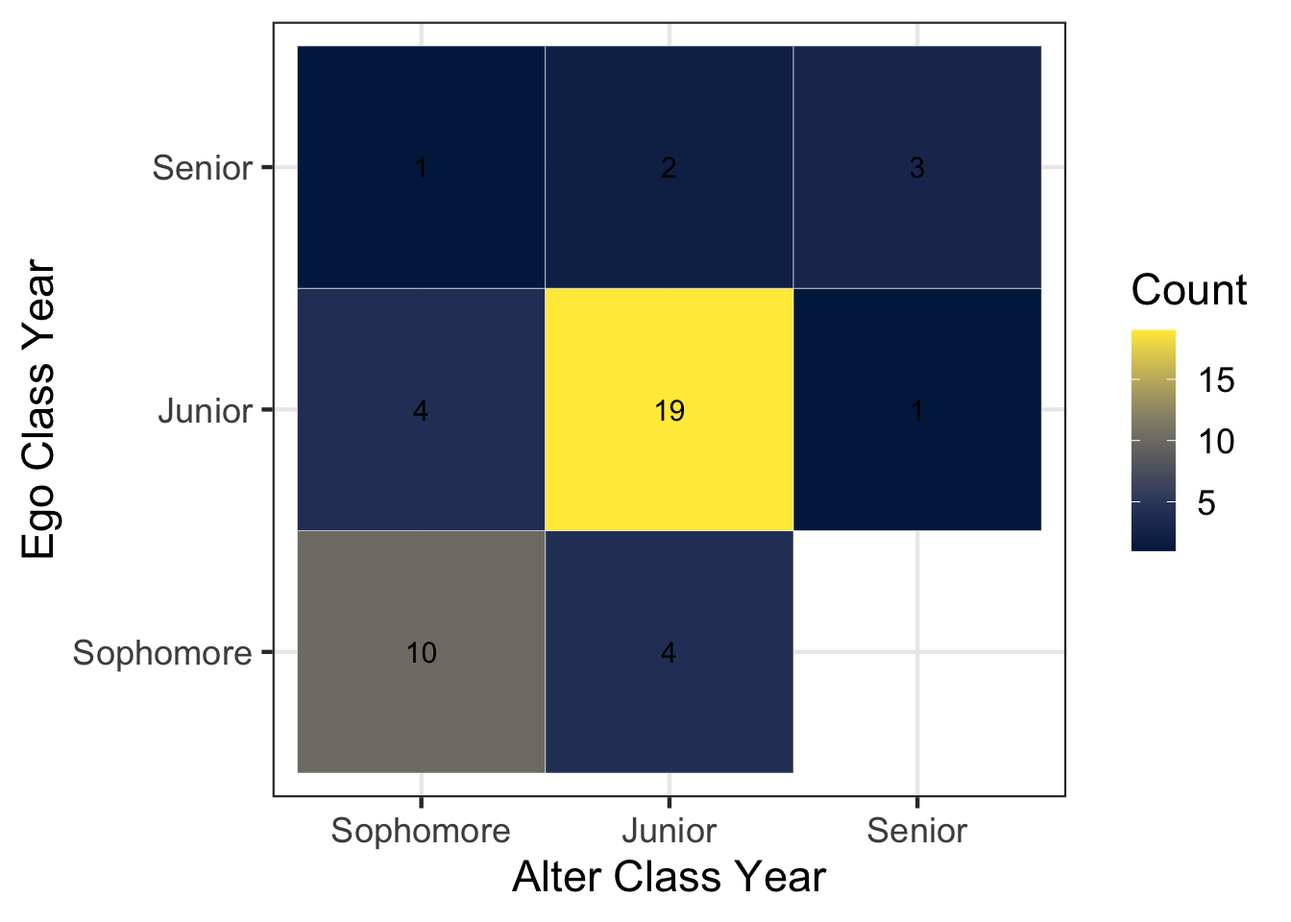
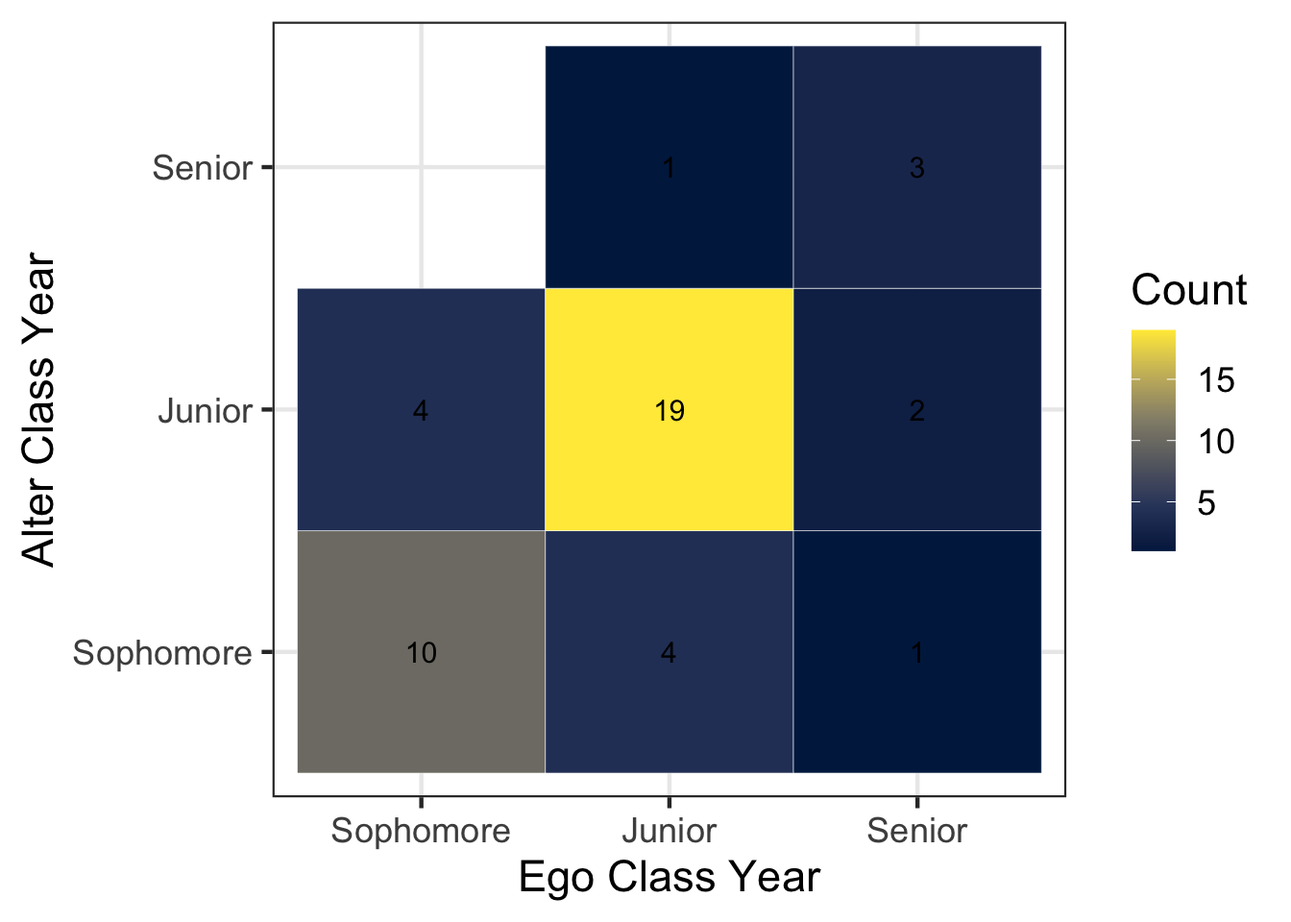
update files

diff --git a/labs/lab2.html b/labs/lab2.html
@@ -7,8 +7,9 @@
 <meta name="viewport" content="width=device-width, initial-scale=1.0, user-scalable=yes">
 
 <meta name="author" content="">
+<meta name="dcterms.date" content="2026-03-05">
 
-<title>Lab 2 (3.2.2026)</title>
+<title>Lab 2</title>
 <style>
 code{white-space: pre-wrap;}
 span.smallcaps{font-variant: small-caps;}
@@ -112,7 +113,7 @@ window.Quarto = {
 
 <header id="title-block-header" class="quarto-title-block default">
 <div class="quarto-title">
-<h1 class="title">Lab 2 (3.2.2026)</h1>
+<h1 class="title">Lab 2</h1>
 </div>
 
 
@@ -126,6 +127,12 @@ window.Quarto = {
           </div>
   </div>
     
+    <div>
+    <div class="quarto-title-meta-heading">Published</div>
+    <div class="quarto-title-meta-contents">
+      <p class="date">March 5, 2026</p>
+    </div>
+  </div>
   
     
   </div>
@@ -146,7 +153,7 @@ window.Quarto = {
 </section>
 <section id="exercise-1-analyze-network-data" class="level1">
 <h1>Exercise 1: Analyze network data</h1>
-<p>We will use the Florentine Family Marriage dataset as a running example for network analysis. Before we start, we need to install and load required packages. A package is a collection of functions (e.g., functions to plot networks) that will help us with our analysis.</p>
+<p>We will use the Florentine Family Marriage dataset as a running example for network analysis. Before we start, we need to install and load required <code>R</code> packages. An <code>R</code> package is a collection of functions (e.g., functions to plot networks) that will help us with our analysis.</p>
 <ul>
 <li><p><code>tidygraph</code> includes tools for network analysis.</p></li>
 <li><p><code>ggraph</code> is used for visualizing networks.</p></li>
@@ -160,7 +167,7 @@ window.Quarto = {
 <span id="cb1-4"><a href="#cb1-4" aria-hidden="true" tabindex="-1"></a><span class="co"># install.packages("ggraph")</span></span>
 <span id="cb1-5"><a href="#cb1-5" aria-hidden="true" tabindex="-1"></a><span class="co"># devtools::install_github("schochastics/networkdata")</span></span></code></pre></div><button title="Copy to Clipboard" class="code-copy-button"><i class="bi"></i></button></div>
 </div>
-<p>Next, we’ll need to library the packages with the function <code>library()</code>. This allows us to use the packages for this session. We only need to install packages once, but load with with <code>library()</code> every time we start a new session.</p>
+<p>Next, we’ll need to library the packages with the function <code>library()</code>. This allows us to use the packages for this session. We only need to install packages once, but load with <code>library()</code> every time we start a new session.</p>
 <div class="cell">
 <div class="code-copy-outer-scaffold"><div class="sourceCode cell-code" id="cb2"><pre class="sourceCode r code-with-copy"><code class="sourceCode r"><span id="cb2-1"><a href="#cb2-1" aria-hidden="true" tabindex="-1"></a><span class="co"># load packages</span></span>
 <span id="cb2-2"><a href="#cb2-2" aria-hidden="true" tabindex="-1"></a><span class="fu">library</span>(tidyverse)</span>
@@ -177,7 +184,7 @@ window.Quarto = {
 <div class="cell">
 <div class="code-copy-outer-scaffold"><div class="sourceCode cell-code" id="cb3"><pre class="sourceCode r code-with-copy"><code class="sourceCode r"><span id="cb3-1"><a href="#cb3-1" aria-hidden="true" tabindex="-1"></a><span class="fu">data</span>(<span class="st">"flo_marriage"</span>)</span></code></pre></div><button title="Copy to Clipboard" class="code-copy-button"><i class="bi"></i></button></div>
 </div>
-<p>The <code>flo_marriage</code> is stored as a network igraph object. To use <code>tidygraph</code>, we need to convert this network object into a tidygraph object using <code>as_tbl_graph</code> so we can analyze it using tidy tools. We assign a name <code>flo_tbl</code> to the converted data frame.</p>
+<p>The <code>flo_marriage</code> is stored as a network igraph object. To use <code>tidygraph</code>, we need to convert this network object into a tidygraph object using <code>as_tbl_graph</code> so we can analyze it using the functions in the <code>tidygraph</code> package. We store the result in an object named <code>flo_tbl</code>.</p>
 <div class="cell">
 <div class="code-copy-outer-scaffold"><div class="sourceCode cell-code" id="cb4"><pre class="sourceCode r code-with-copy"><code class="sourceCode r"><span id="cb4-1"><a href="#cb4-1" aria-hidden="true" tabindex="-1"></a>flo_tbl <span class="ot">&lt;-</span> <span class="fu">as_tbl_graph</span>(flo_marriage)</span>
 <span id="cb4-2"><a href="#cb4-2" aria-hidden="true" tabindex="-1"></a>flo_tbl</span></code></pre></div><button title="Copy to Clipboard" class="code-copy-button"><i class="bi"></i></button></div>
@@ -229,12 +236,12 @@ window.Quarto = {
 <li><code>to</code>: the node ID that the edge connects to</li>
 </ul>
 <p>The edge table gives us the information on which nodes are connected as marriage ties. Node IDs are used instead of family names because numerical IDs are more efficient for a computer to work with.</p>
-<p>You can find more information about details about how this dataset was generated from this paper:</p>
-<p>Breiger R. and Pattison P. (1986). Cumulated social roles: The duality of persons and their algebras. Social Networks, 8, 215-256. https://doi.org/10.1016/0378-8733(86)90006-7</p>
+<p>You can find more information about how this dataset was generated from this paper:</p>
+<p>Breiger R. and Pattison P. (1986). Cumulated social roles: The duality of persons and their algebras. <em>Social Networks</em>, 8, 215-256. https://doi.org/10.1016/0378-8733(86)90006-7</p>
 <p>Overall, we can learn from the output that:</p>
 <ul>
 <li><p>The network has 16 families (nodes) and 20 marriage ties (edges).</p></li>
-<li><p>It is undirected (marriage is mutual). If person A is married to person B, person B is married to person A.</p></li>
+<li><p>It is undirected (marriage is mutual). If someone in family A is married to someone in family B, someone in family B is married to someone in family A.</p></li>
 </ul>
 <p>If you want to check explicitly the number of nodes and edges, use the following two functions from the <code>tidygraph</code> package. This takes a few steps.</p>
 <div class="cell">
@@ -265,7 +272,7 @@ window.Quarto = {
 <p><code>%&gt;%</code> is the pipe operator that lets us chain operations together without creating intermediate objects. It works by taking the object on the left-hand side and passing it as the first argument to the next function.</p>
 <p><code>activate()</code> tells <code>tidygraph</code> to apply subsequent manipulations to the nodes, since the tbl_graph objects hold two separate, linked tables (nodes and edges).</p>
 <p><code>as_tibble()</code> converts the tbl_graph object into a regular table so that standard data-frame functions like <code>count()</code> can work. A tbl_graph is not a regular data frame.</p>
-<p><code>count(name = "")</code> counts the number of rows and assigns the number to “n_edges”.</p>
+<p><code>count(name = "n_nodes")</code> counts the number of rows and assigns the number to a column <code>n_nodes</code>.</p>
 <section id="the-medici-family" class="level2">
 <h2 class="anchored" data-anchor-id="the-medici-family">The Medici Family</h2>
 <p>Now that we have a basic understanding of the network, we can do some basic analysis of the network. The Medici family was a powerful banking dynasty in Florence that produced renowned patrons of the arts, four popes, and two French queens, leaving a lasting impact on European economy, culture, and politics.</p>
@@ -289,9 +296,6 @@ window.Quarto = {
 </div>
 </div>
 </div>
-<section id="comprehension-check" class="level4">
-<h4 class="anchored" data-anchor-id="comprehension-check">[Comprehension check]</h4>
-<p>Based on the visualization above, what families appear to be the most important to this network?</p>
 <p>In the code chunk above:</p>
 <p><code>set.seed()</code>: fix the starting point of R’s random number generator. Without setting a seed (e.g., 8287), layout algorithms in <code>ggraph</code> that rely on randomness may produce slightly different network visualizations each time the code is executed.</p>
 <p><code>ggraph(flo_tbl, layout = "stress")</code>: a function used to visualize networks. <code>flo_tbl</code> is the network object being plotted, and <code>layout = "stress"</code> specifies a force-directed layout algorithm that positions nodes so that connected nodes appear closer together in the visualization.</p>
@@ -301,10 +305,13 @@ window.Quarto = {
 <p><code>geom_node_text(aes(label = name), repel = TRUE)</code>: a function used to add text labels to nodes. <code>aes()</code> stands for aesthetic mapping, and it tells R to use the variable name from the node table as the label. <code>repel = TRUE</code> prevents labels from overlapping and makes the plot more readable.</p>
 <p><code>theme_void()</code>: a function that removes axes, ticks, and background grid to make the plot cleaner.</p>
 <p><strong>Note</strong>: Graphs can be visualized in different ways. In the code above, try changing the <code>layout = "stress"</code> in the code block above to something like <code>layout = "circle"</code> or <code>layout = "fr"</code>. How did this change the plot?</p>
+<section id="comprehension-check" class="level4">
+<h4 class="anchored" data-anchor-id="comprehension-check">[Comprehension check]</h4>
+<p>Based on the visualization above, what families appear to be the most important to this network?</p>
 </section>
 <section id="centrality-measures" class="level3">
 <h3 class="anchored" data-anchor-id="centrality-measures">Centrality Measures</h3>
-<p>Now we move to measurements for centrality. We will calculate two types of centrality: degree and betweenness centrality.</p>
+<p>Now we move to measurements for centrality. We will calculate two types of centrality: degree centrality and betweenness centrality.</p>
 <div class="cell">
 <div class="code-copy-outer-scaffold"><div class="sourceCode cell-code" id="cb11"><pre class="sourceCode r code-with-copy"><code class="sourceCode r"><span id="cb11-1"><a href="#cb11-1" aria-hidden="true" tabindex="-1"></a><span class="do">## calculate centrality measures </span></span>
 <span id="cb11-2"><a href="#cb11-2" aria-hidden="true" tabindex="-1"></a>flo_tbl <span class="ot">&lt;-</span> flo_tbl <span class="sc">%&gt;%</span></span>
@@ -341,7 +348,7 @@ window.Quarto = {
 <p>In the code chunk above, we first tell R to apply subsequent manipulations to the nodes using <code>activate(nodes)</code>. Then we have the following functions:</p>
 <p><code>mutate()</code>: add new columns to the active table (which is currently the node table).</p>
 <p><code>centrality_degree()</code>: calculate the degree centrality (the number of connections) for each node. The result is stored in a new column called <code>degree</code>.</p>
-<p><code>centrality_betweenness</code>: calculate the betweenness centrality (how often a node lies on the shortest path between other nodes) for each node. The result is stored in a new column called <code>betweenness</code>.</p>
+<p><code>centrality_betweenness()</code>: calculate the betweenness centrality (how many times a node lies on the shortest path between other nodes) for each node. The result is stored in a new column called <code>betweenness</code>.</p>
 <p>With <code>as_tibble()</code>, we again convert the tbl_graph object into a regular table.</p>
 <p><code>select()</code>: chooses only the columns we want to display. Here, we want to display only the family names, degree centrality, and betweenness centrality values.</p>
 <p>Now let’s combine the two centrality measures into one visualization:</p>
@@ -377,12 +384,12 @@ window.Quarto = {
 <p><code>scale_fill_viridis_c(option = "cividis", name = "Betweenness")</code>: This defines the color scale for betweenness centrality. We use the colorblind-friendly “cividis” palette and label the legend as “Betweenness.”</p>
 <p><code>scale_size(range = c(5, 10), name = "Degree")</code>: This controls the visual size range of the nodes, scaling them between 5 and 10, and labels the legend as “Degree.”</p>
 <p><code>theme_graph()</code>: This removes axes and background elements to create a cleaner network visualization.</p>
-<p><code>labs(title = "Florentine Marriage Network")</code>: This allow us to add or modify labels in a plot. Here, we add a title for the plot with <code>title = "Florentine Marriage Network"</code>.</p>
+<p><code>labs(title = "Florentine Marriage Network")</code>: This allows us to add or modify labels in a plot. Here, we add a title for the plot with <code>title = "Florentine Marriage Network"</code>.</p>
 <section id="exercise-questions-1.1---1.4" class="level4">
 <h4 class="anchored" data-anchor-id="exercise-questions-1.1---1.4">Exercise Questions (1.1 - 1.4)</h4>
 <p>1.1 What does each centrality measure reveal about the Medici family’s influence, and what does this imply about its power in the network?</p>
-<p>1.2 What would happen if we remove Medici from the network? Run the code below and describe how the network has changed. Now which family appears to be the most important? Is the network more fragmented?</p>
-<p>1.3 Based on your answers to 1.1 and 1.2, describe two types of social capital that the Medici family likely has. How do you know?</p>
+<p>1.2 What would happen if we remove Medici from the network? Run the code below and describe how the network has changed. Now which family appears to be the most important? Is the network more fragmented (i.e, contain more components)?</p>
+<p>1.3 Based on your answers to 1.1 and 1.2, describe two types of social capital theorized by Robert Putnam that the Medici family likely has. How do you know?</p>
 <div class="cell">
 <div class="code-copy-outer-scaffold"><div class="sourceCode cell-code" id="cb14"><pre class="sourceCode r code-with-copy"><code class="sourceCode r"><span id="cb14-1"><a href="#cb14-1" aria-hidden="true" tabindex="-1"></a><span class="do">## First, drop the Medici family and recalculate centrality measures </span></span>
 <span id="cb14-2"><a href="#cb14-2" aria-hidden="true" tabindex="-1"></a>flo_tbl_no_medici <span class="ot">&lt;-</span> flo_tbl <span class="sc">%&gt;%</span> </span>
@@ -415,7 +422,7 @@ window.Quarto = {
 </div>
 </div>
 </div>
-<p>1.4. Run the code below. Based on the number of priors, which family appears the most important? Based on wealth? What does a network perspective add?</p>
+<p>1.4. Run the code below. Based on the number of priors, which family appears the most important? Based on wealth? Reflect: What does a network perspective add?</p>
 <div class="cell">
 <div class="code-copy-outer-scaffold"><div class="sourceCode cell-code" id="cb15"><pre class="sourceCode r code-with-copy"><code class="sourceCode r"><span id="cb15-1"><a href="#cb15-1" aria-hidden="true" tabindex="-1"></a>flo_tbl <span class="sc">%&gt;%</span> </span>
 <span id="cb15-2"><a href="#cb15-2" aria-hidden="true" tabindex="-1"></a>  <span class="fu">activate</span>(nodes) <span class="sc">%&gt;%</span></span>
@@ -449,11 +456,14 @@ window.Quarto = {
 </section>
 <section id="exercise-2-homophily-survey" class="level1">
 <h1>Exercise 2: Homophily Survey</h1>
-<p>Now we’ll turn to analyzing data from our homophily survey. In this survey, we collected information about an ego and five of their discussion partners (alters). We dropped dropped nonsensical responses and missing data. We’ll read this file in from where it is stored (on Github) using the <code>read_csv()</code> function.</p>
+<p>Now we’ll turn to analyzing data from our homophily survey. In this survey, we collected information about an ego and five of their discussion partners (alters). All nonsensical responses and missing data have been dropped. We’ll read this file in from where it is stored (on Github) using the <code>read_csv()</code> function.</p>
 <p>The data is formatted in <code>long</code> format, where each row represents a different alter. This means that we will have 5 rows for each ego.</p>
 <div class="cell">
-<div class="code-copy-outer-scaffold"><div class="sourceCode cell-code" id="cb17"><pre class="sourceCode r code-with-copy"><code class="sourceCode r"><span id="cb17-1"><a href="#cb17-1" aria-hidden="true" tabindex="-1"></a>responses <span class="ot">&lt;-</span> <span class="fu">read_csv</span>(<span class="st">"https://raw.githubusercontent.com/caseybreen/networks_course/main/data/homophily_survey.csv"</span>)</span>
-<span id="cb17-2"><a href="#cb17-2" aria-hidden="true" tabindex="-1"></a>responses</span></code></pre></div><button title="Copy to Clipboard" class="code-copy-button"><i class="bi"></i></button></div>
+<div class="code-copy-outer-scaffold"><div class="sourceCode cell-code" id="cb17"><pre class="sourceCode r code-with-copy"><code class="sourceCode r"><span id="cb17-1"><a href="#cb17-1" aria-hidden="true" tabindex="-1"></a><span class="do">## read in survey responses </span></span>
+<span id="cb17-2"><a href="#cb17-2" aria-hidden="true" tabindex="-1"></a>responses <span class="ot">&lt;-</span> <span class="fu">read_csv</span>(<span class="st">"https://raw.githubusercontent.com/caseybreen/networks_course/main/data/homophily_survey.csv"</span>)</span>
+<span id="cb17-3"><a href="#cb17-3" aria-hidden="true" tabindex="-1"></a></span>
+<span id="cb17-4"><a href="#cb17-4" aria-hidden="true" tabindex="-1"></a><span class="do">## print out survey responses </span></span>
+<span id="cb17-5"><a href="#cb17-5" aria-hidden="true" tabindex="-1"></a>responses</span></code></pre></div><button title="Copy to Clipboard" class="code-copy-button"><i class="bi"></i></button></div>
 <div class="cell-output cell-output-stdout">
 <pre><code># A tibble: 75 × 13
    ego_id date      ego_gender ego_age ego_classyear ego_origin ego_ai alter_id
@@ -486,10 +496,10 @@ window.Quarto = {
 <p><code>alter_gender</code>: The gender of the discussion partner listed by the respondent.</p>
 <p><code>alter_origin</code>: Where the discussion partner listed by the respondent is from.</p>
 <p><code>alter_age</code>: The age of the discussion partner listed by the respondent.</p>
-<p><code>alter_ai:</code> Whether the respondent believes that the discussion partner person has used AI (e.g., ChatGPT) on coursework in a way that violated course rules in the past 12 months.</p>
+<p><code>alter_ai</code>: Whether the respondent believes that the discussion partner person has used AI (e.g., ChatGPT) on coursework in a way that violated course rules in the past 12 months.</p>
 <section id="simple-explorations" class="level3">
 <h3 class="anchored" data-anchor-id="simple-explorations">Simple explorations</h3>
-<p>First, let’s look at the average age of our discussion partners. To do this, we will need to use the <code>summarize()</code> function with the <code>mean()</code> function. The <code>summarise()</code> function collapses a table into a summary and produces one row with summary statistics (e.g, <code>mean()</code> or <code>median()</code>).</p>
+<p>First, let’s look at the average age of discussion partners. To do this, we will need to use the <code>summarize()</code> function with the <code>mean()</code> function. The <code>summarise()</code> function collapses a table into a summary and produces one row with summary statistics (e.g, <code>mean()</code> or <code>median()</code>).</p>
 <div class="cell">
 <div class="code-copy-outer-scaffold"><div class="sourceCode cell-code" id="cb19"><pre class="sourceCode r code-with-copy"><code class="sourceCode r"><span id="cb19-1"><a href="#cb19-1" aria-hidden="true" tabindex="-1"></a><span class="do">## calculate mean age of discussion partners</span></span>
 <span id="cb19-2"><a href="#cb19-2" aria-hidden="true" tabindex="-1"></a>responses <span class="sc">%&gt;%</span> </span>
@@ -501,9 +511,9 @@ window.Quarto = {
 1              26.5</code></pre>
 </div>
 </div>
-<p>Does average age of our discussion partners vary by gender? Here, we can use the <code>group_by(ego_gender)</code> function to calculate the mean age of alters by gender.</p>
+<p>Does the average age of discussion partners vary by gender? Here, we can use the <code>group_by(ego_gender)</code> function to calculate the mean age of alters by gender.</p>
 <div class="cell">
-<div class="code-copy-outer-scaffold"><div class="sourceCode cell-code" id="cb21"><pre class="sourceCode r code-with-copy"><code class="sourceCode r"><span id="cb21-1"><a href="#cb21-1" aria-hidden="true" tabindex="-1"></a><span class="do">## mean age of confidantes by gender </span></span>
+<div class="code-copy-outer-scaffold"><div class="sourceCode cell-code" id="cb21"><pre class="sourceCode r code-with-copy"><code class="sourceCode r"><span id="cb21-1"><a href="#cb21-1" aria-hidden="true" tabindex="-1"></a><span class="do">## mean age of discussion partners by gender </span></span>
 <span id="cb21-2"><a href="#cb21-2" aria-hidden="true" tabindex="-1"></a>responses <span class="sc">%&gt;%</span> </span>
 <span id="cb21-3"><a href="#cb21-3" aria-hidden="true" tabindex="-1"></a>  <span class="fu">group_by</span>(ego_gender) <span class="sc">%&gt;%</span> </span>
 <span id="cb21-4"><a href="#cb21-4" aria-hidden="true" tabindex="-1"></a>  <span class="fu">summarize</span>(<span class="fu">mean</span>(alter_age))</span></code></pre></div><button title="Copy to Clipboard" class="code-copy-button"><i class="bi"></i></button></div>
@@ -515,10 +525,11 @@ window.Quarto = {
 2 M                       26.8</code></pre>
 </div>
 </div>
-<p>We can also look at the age of the younger discussion partner and the oldest partner, using the <code>summarize()</code> function along with <code>min()</code> and <code>max().</code></p>
+<p>We can also look at the age of the youngest and oldest discussion partner, using the <code>summarize()</code> function along with <code>min()</code> and <code>max().</code></p>
 <div class="cell">
-<div class="code-copy-outer-scaffold"><div class="sourceCode cell-code" id="cb23"><pre class="sourceCode r code-with-copy"><code class="sourceCode r"><span id="cb23-1"><a href="#cb23-1" aria-hidden="true" tabindex="-1"></a>responses <span class="sc">%&gt;%</span> </span>
-<span id="cb23-2"><a href="#cb23-2" aria-hidden="true" tabindex="-1"></a>  <span class="fu">summarize</span>(<span class="fu">min</span>(alter_age), <span class="fu">max</span>(alter_age))</span></code></pre></div><button title="Copy to Clipboard" class="code-copy-button"><i class="bi"></i></button></div>
+<div class="code-copy-outer-scaffold"><div class="sourceCode cell-code" id="cb23"><pre class="sourceCode r code-with-copy"><code class="sourceCode r"><span id="cb23-1"><a href="#cb23-1" aria-hidden="true" tabindex="-1"></a><span class="do">## calculate min and max age of discussion partner</span></span>
+<span id="cb23-2"><a href="#cb23-2" aria-hidden="true" tabindex="-1"></a>responses <span class="sc">%&gt;%</span> </span>
+<span id="cb23-3"><a href="#cb23-3" aria-hidden="true" tabindex="-1"></a>  <span class="fu">summarize</span>(<span class="fu">min</span>(alter_age), <span class="fu">max</span>(alter_age))</span></code></pre></div><button title="Copy to Clipboard" class="code-copy-button"><i class="bi"></i></button></div>
 <div class="cell-output cell-output-stdout">
 <pre><code># A tibble: 1 × 2
   `min(alter_age)` `max(alter_age)`
@@ -528,9 +539,10 @@ window.Quarto = {
 </div>
 <p>Finally, we can also make a histogram plot of the ages of our discussion partners:</p>
 <div class="cell">
-<div class="code-copy-outer-scaffold"><div class="sourceCode cell-code" id="cb25"><pre class="sourceCode r code-with-copy"><code class="sourceCode r"><span id="cb25-1"><a href="#cb25-1" aria-hidden="true" tabindex="-1"></a>responses <span class="sc">%&gt;%</span> </span>
-<span id="cb25-2"><a href="#cb25-2" aria-hidden="true" tabindex="-1"></a>  <span class="fu">ggplot</span>(<span class="fu">aes</span>(<span class="at">x =</span> alter_age)) <span class="sc">+</span> </span>
-<span id="cb25-3"><a href="#cb25-3" aria-hidden="true" tabindex="-1"></a>  <span class="fu">geom_histogram</span>(<span class="at">color =</span> <span class="st">"black"</span>, <span class="at">fill =</span> <span class="st">"grey"</span>)  </span></code></pre></div><button title="Copy to Clipboard" class="code-copy-button"><i class="bi"></i></button></div>
+<div class="code-copy-outer-scaffold"><div class="sourceCode cell-code" id="cb25"><pre class="sourceCode r code-with-copy"><code class="sourceCode r"><span id="cb25-1"><a href="#cb25-1" aria-hidden="true" tabindex="-1"></a><span class="do">## calculate histogram plot of ages of our discussion partners</span></span>
+<span id="cb25-2"><a href="#cb25-2" aria-hidden="true" tabindex="-1"></a>responses <span class="sc">%&gt;%</span> </span>
+<span id="cb25-3"><a href="#cb25-3" aria-hidden="true" tabindex="-1"></a>  <span class="fu">ggplot</span>(<span class="fu">aes</span>(<span class="at">x =</span> alter_age)) <span class="sc">+</span> </span>
+<span id="cb25-4"><a href="#cb25-4" aria-hidden="true" tabindex="-1"></a>  <span class="fu">geom_histogram</span>(<span class="at">color =</span> <span class="st">"black"</span>, <span class="at">fill =</span> <span class="st">"grey"</span>)  </span></code></pre></div><button title="Copy to Clipboard" class="code-copy-button"><i class="bi"></i></button></div>
 <div class="cell-output-display">
 <div>
 <figure class="figure">
@@ -539,6 +551,8 @@ window.Quarto = {
 </div>
 </div>
 </div>
+<p>The above code:</p>
+<p>Uses the pipe <code>%&gt;%</code> to pass the <code>responses</code> dataframe into the next function. Then, it uses <code>ggplot(aes(x = alter_age))</code> to initialize a plot with alter_age on the x-axis. Finally, the <code>geom_histogram</code> function creates a histogram plot, where each bar is outlined in black and filled in with grey.</p>
 <p><strong>Interpret:</strong> why do you think discussion partners are clustered in the range of 18-25 and 45-60, with no discussion partners between 28 and 44?</p>
 </section>
 <section id="homophily" class="level3">
@@ -553,7 +567,7 @@ window.Quarto = {
 <span id="cb26-6"><a href="#cb26-6" aria-hidden="true" tabindex="-1"></a>gender_tabulated <span class="sc">%&gt;%</span> </span>
 <span id="cb26-7"><a href="#cb26-7" aria-hidden="true" tabindex="-1"></a>  <span class="fu">ggplot</span>(<span class="fu">aes</span>(<span class="at">x =</span> alter_gender, <span class="at">y =</span> ego_gender, <span class="at">fill =</span> n)) <span class="sc">+</span></span>
 <span id="cb26-8"><a href="#cb26-8" aria-hidden="true" tabindex="-1"></a>  <span class="fu">geom_tile</span>() <span class="sc">+</span></span>
-<span id="cb26-9"><a href="#cb26-9" aria-hidden="true" tabindex="-1"></a>  <span class="fu">geom_text</span>(<span class="fu">aes</span>(<span class="at">label =</span> n), <span class="at">size =</span> <span class="dv">7</span>, <span class="at">color =</span> <span class="st">"black"</span>) <span class="sc">+</span></span>
+<span id="cb26-9"><a href="#cb26-9" aria-hidden="true" tabindex="-1"></a>  <span class="fu">geom_text</span>(<span class="fu">aes</span>(<span class="at">label =</span> n), <span class="at">size =</span> <span class="dv">7</span>) <span class="sc">+</span></span>
 <span id="cb26-10"><a href="#cb26-10" aria-hidden="true" tabindex="-1"></a>  <span class="fu">scale_fill_viridis_c</span>(<span class="at">option =</span> <span class="st">"cividis"</span>) <span class="sc">+</span></span>
 <span id="cb26-11"><a href="#cb26-11" aria-hidden="true" tabindex="-1"></a>  <span class="fu">labs</span>(</span>
 <span id="cb26-12"><a href="#cb26-12" aria-hidden="true" tabindex="-1"></a>    <span class="at">x =</span> <span class="st">"Alter Gender"</span>,</span>
@@ -568,31 +582,32 @@ window.Quarto = {
 </div>
 </div>
 </div>
-<p>Let’s break down the above code. First, <code>count(ego_gender, alter_gender)</code> applies the1 function <code>count()</code> to count the number of rows for each combination of the variables <code>ego_gender</code> and <code>alter_gender</code>. Each row in the resulting table represents the number of discussion ties reported between these two gender groups. We store this summarized table in a new object called <code>discussion_partners_tabulated</code>.</p>
-<p>Next, we visualize this information using ggplot. The function <code>ggplot()</code> function initializes a plot using the summarized dataset, which we pass to it using the <code>%&gt;%</code> operator. Inside <code>aes()</code> (aesthetic mapping), we specify how variables should appear in the visualization. Here, <code>alter_gender</code> is mapped to the x-axis, <code>ego_gender</code> to the y-axis, and the variable <code>n</code> (the count of ties) to the fill color.</p>
-<p><code>geom_tile(color = "white")</code>: the function <code>geom_tile()</code> draws a heatmap where each square (tile) represents a combination of ego gender and alter gender. The color of the tile corresponds to the number of discussion ties between those groups.</p>
-<p><code>geom_text(aes(label = n), size = 4)</code>: the function <code>geom_text()</code> adds text labels to each tile. Inside aes(), we specify that the label should display the value of <code>n</code>, which shows the exact number of ties in each cell.</p>
+<p>Let’s break down the above code. First, <code>count(ego_gender, alter_gender)</code> applies the function <code>count()</code> to count the number of rows for each combination of the variables <code>ego_gender</code> and <code>alter_gender</code>. Each row in the resulting table represents the number of discussion ties reported between these two gender groups. We store this summarized table in a new object called <code>gender_tabulated</code>.</p>
+<p>Next, we visualize this information using <code>ggplot</code>.</p>
+<p>The <code>ggplot()</code> function initializes a plot using the summarized dataset, which we pass to it using the <code>%&gt;%</code> operator. Inside the <code>aes()</code> (aesthetic mapping), we specify how variables should appear in the visualization. Here, <code>alter_gender</code> is mapped to the x-axis, <code>ego_gender</code> to the y-axis, and the variable <code>n</code> (the count of ties) to the fill color.</p>
+<p><code>geom_tile()</code>: the function <code>geom_tile()</code> draws a heatmap where each square (tile) represents a combination of ego gender and alter gender. The color of the tile corresponds to the number of discussion ties between those groups.</p>
+<p><code>geom_text(aes(label = n), size = 7)</code>: the function <code>geom_text()</code> adds text labels to each tile. Inside <code>aes()</code>, we specify that the label should display the value of <code>n</code>, which shows the exact number of ties in each cell.</p>
 <p><code>scale_fill_viridis_c(option = "cividis")</code>: this function defines the color scale used for the tiles. The “cividis” palette is colorblind-friendly and makes it easier to distinguish different counts.</p>
 <p>Now let’s investigate homophily with respect to class year (e.g, “Freshman”, “Sophomore”, “Junior”, “Senior”).</p>
 <div class="cell">
-<div class="code-copy-outer-scaffold"><div class="sourceCode cell-code" id="cb27"><pre class="sourceCode r code-with-copy"><code class="sourceCode r"><span id="cb27-1"><a href="#cb27-1" aria-hidden="true" tabindex="-1"></a><span class="do">## calculate plot </span></span>
+<div class="code-copy-outer-scaffold"><div class="sourceCode cell-code" id="cb27"><pre class="sourceCode r code-with-copy"><code class="sourceCode r"><span id="cb27-1"><a href="#cb27-1" aria-hidden="true" tabindex="-1"></a><span class="do">## calculate data fot plot  </span></span>
 <span id="cb27-2"><a href="#cb27-2" aria-hidden="true" tabindex="-1"></a>class_year_tabulated <span class="ot">&lt;-</span> responses <span class="sc">%&gt;%</span> </span>
 <span id="cb27-3"><a href="#cb27-3" aria-hidden="true" tabindex="-1"></a>  <span class="fu">filter</span>(alter_classyear <span class="sc">%in%</span> <span class="fu">c</span>(<span class="st">"Freshman"</span>, <span class="st">"Sophomore"</span>, <span class="st">"Junior"</span>, <span class="st">"Senior"</span>)) <span class="sc">%&gt;%</span> </span>
 <span id="cb27-4"><a href="#cb27-4" aria-hidden="true" tabindex="-1"></a>  <span class="fu">mutate</span>(</span>
-<span id="cb27-5"><a href="#cb27-5" aria-hidden="true" tabindex="-1"></a>    <span class="at">ego_classyear =</span> <span class="fu">factor</span>(ego_classyear, <span class="at">levels =</span> <span class="fu">c</span>(<span class="st">"Sophomore"</span>,<span class="st">"Junior"</span>,<span class="st">"Senior"</span>)),</span>
-<span id="cb27-6"><a href="#cb27-6" aria-hidden="true" tabindex="-1"></a>    <span class="at">alter_classyear =</span> <span class="fu">factor</span>(alter_classyear, <span class="at">levels =</span> <span class="fu">c</span>(<span class="st">"Sophomore"</span>,<span class="st">"Junior"</span>,<span class="st">"Senior"</span>))</span>
+<span id="cb27-5"><a href="#cb27-5" aria-hidden="true" tabindex="-1"></a>    <span class="at">ego_classyear =</span> <span class="fu">factor</span>(ego_classyear, <span class="at">levels =</span> <span class="fu">c</span>(<span class="st">"Freshman"</span>, <span class="st">"Sophomore"</span>, <span class="st">"Junior"</span>, <span class="st">"Senior"</span>)),</span>
+<span id="cb27-6"><a href="#cb27-6" aria-hidden="true" tabindex="-1"></a>    <span class="at">alter_classyear =</span> <span class="fu">factor</span>(alter_classyear, <span class="at">levels =</span> <span class="fu">c</span>(<span class="st">"Freshman"</span>, <span class="st">"Sophomore"</span>, <span class="st">"Junior"</span>, <span class="st">"Senior"</span>))</span>
 <span id="cb27-7"><a href="#cb27-7" aria-hidden="true" tabindex="-1"></a>  ) <span class="sc">%&gt;%</span> </span>
 <span id="cb27-8"><a href="#cb27-8" aria-hidden="true" tabindex="-1"></a>  <span class="fu">count</span>(ego_classyear, alter_classyear) </span>
 <span id="cb27-9"><a href="#cb27-9" aria-hidden="true" tabindex="-1"></a></span>
 <span id="cb27-10"><a href="#cb27-10" aria-hidden="true" tabindex="-1"></a><span class="do">## make visualization </span></span>
 <span id="cb27-11"><a href="#cb27-11" aria-hidden="true" tabindex="-1"></a>class_year_tabulated <span class="sc">%&gt;%</span> </span>
-<span id="cb27-12"><a href="#cb27-12" aria-hidden="true" tabindex="-1"></a>  <span class="fu">ggplot</span>(<span class="fu">aes</span>(<span class="at">x =</span> alter_classyear, <span class="at">y =</span> ego_classyear, <span class="at">fill =</span> n)) <span class="sc">+</span></span>
+<span id="cb27-12"><a href="#cb27-12" aria-hidden="true" tabindex="-1"></a>  <span class="fu">ggplot</span>(<span class="fu">aes</span>(<span class="at">x =</span> ego_classyear , <span class="at">y =</span> alter_classyear, <span class="at">fill =</span> n)) <span class="sc">+</span></span>
 <span id="cb27-13"><a href="#cb27-13" aria-hidden="true" tabindex="-1"></a>  <span class="fu">geom_tile</span>(<span class="at">color =</span> <span class="st">"white"</span>) <span class="sc">+</span></span>
 <span id="cb27-14"><a href="#cb27-14" aria-hidden="true" tabindex="-1"></a>  <span class="fu">geom_text</span>(<span class="fu">aes</span>(<span class="at">label =</span> n), <span class="at">size =</span> <span class="dv">4</span>) <span class="sc">+</span></span>
 <span id="cb27-15"><a href="#cb27-15" aria-hidden="true" tabindex="-1"></a>  <span class="fu">scale_fill_viridis_c</span>(<span class="at">option =</span> <span class="st">"cividis"</span>) <span class="sc">+</span></span>
 <span id="cb27-16"><a href="#cb27-16" aria-hidden="true" tabindex="-1"></a>  <span class="fu">labs</span>(</span>
-<span id="cb27-17"><a href="#cb27-17" aria-hidden="true" tabindex="-1"></a>    <span class="at">x =</span> <span class="st">"Alter Class Year"</span>,</span>
-<span id="cb27-18"><a href="#cb27-18" aria-hidden="true" tabindex="-1"></a>    <span class="at">y =</span> <span class="st">"Ego Class Year"</span>,</span>
+<span id="cb27-17"><a href="#cb27-17" aria-hidden="true" tabindex="-1"></a>    <span class="at">x =</span> <span class="st">"Ego Class Year"</span>,</span>
+<span id="cb27-18"><a href="#cb27-18" aria-hidden="true" tabindex="-1"></a>    <span class="at">y =</span> <span class="st">"Alter Class Year"</span>,</span>
 <span id="cb27-19"><a href="#cb27-19" aria-hidden="true" tabindex="-1"></a>    <span class="at">fill =</span> <span class="st">"Count"</span></span>
 <span id="cb27-20"><a href="#cb27-20" aria-hidden="true" tabindex="-1"></a>  ) </span></code></pre></div><button title="Copy to Clipboard" class="code-copy-button"><i class="bi"></i></button></div>
 <div class="cell-output-display">
@@ -603,12 +618,14 @@ window.Quarto = {
 </div>
 </div>
 </div>
-<p>Wow! Nobody here listed a Freshman as one of their discussion partners.</p>
-<section id="exercise-questions" class="level4">
-<h4 class="anchored" data-anchor-id="exercise-questions">Exercise Questions</h4>
-<p>2.1 Looking at the “tile” visualization of the gender of discussion partner, do you see evidence of gender homophily? Why or why not?</p>
+<p>Interesting… nobody in our class listed a Freshman as one of their top five discussion partners.</p>
+<p>The code above is nearly identical to the previous chunk that examined gender. However, we add an additional step that converts the class year variables into ordered factor variables: <code>factor(ego_classyear, levels = c("Freshman", "Sophomore", "Junior", "Senior"))</code>.</p>
+<p>This ensures that the plot displays the class years in a meaningful order (Freshman → Sophomore → Junior → Senior), rather than the default alphabetical order.</p>
+<section id="exercise-questions-2.1-2.5" class="level4">
+<h4 class="anchored" data-anchor-id="exercise-questions-2.1-2.5">Exercise Questions (2.1-2.5)</h4>
+<p>2.1 Looking at the tile visualization of ego gender and discussion partner gender, do you see evidence of gender homophily? Why or why not?</p>
 <p>2.2 What percentage of cross-gender ties (men → women or women → men) do we observe in the data? Use the information in <code>gender_tabulated</code> to calculate this value (or use R code to calculate directly).</p>
-<p>Assume that men and women are equally represented in the general population. In a world with no homophily and approximately equal numbers of men and women, what percentage of ties would we expect to be cross-gender (using <span class="math inline">\(2pq\)</span>)? How does this compare to what we observed? Is this evidence of homophily?</p>
+<p>Assume that men and women are equally represented in the our class. In a world with no homophily and approximately equal numbers of men and women, what percentage of ties would we expect to be cross-gender (using <span class="math inline">\(2pq\)</span> formula)? How does this compare to what we observed? Is this evidence for or against homophily?</p>
 <p>2.3 What percentage of ties are between people of the same class year? Hint: update the summarize function below to calculate the mean number of times that <code>alter_classyear</code> is equal to the <code>ego_classyear</code>. Note that in R, equality is tested using two equal signs (==).</p>
 <div class="cell">
 <div class="code-copy-outer-scaffold"><div class="sourceCode cell-code" id="cb28"><pre class="sourceCode r code-with-copy"><code class="sourceCode r"><span id="cb28-1"><a href="#cb28-1" aria-hidden="true" tabindex="-1"></a><span class="do">## test equivalency in R </span></span>
@@ -616,28 +633,16 @@ window.Quarto = {
 <span id="cb28-3"><a href="#cb28-3" aria-hidden="true" tabindex="-1"></a><span class="co">#   filter(alter_classyear %in% c("Freshman", "Sophomore", "Junior", "Senior")) %&gt;% </span></span>
 <span id="cb28-4"><a href="#cb28-4" aria-hidden="true" tabindex="-1"></a><span class="co">#   summarize(&lt;Fill this in&gt;)</span></span></code></pre></div><button title="Copy to Clipboard" class="code-copy-button"><i class="bi"></i></button></div>
 </div>
-<p>2.4 Which of mechanisms do you think are most responsible for the finding you observed in 2.3?</p>
-<p>2.5. Revisit our survey data. Use the <code>filter()</code> function and the <code>alter_age</code> variable to restrict the data to discussion partners older than 40. Among these ties, what percentage are cross-gender ties (men → women or women → men)? Does this look different from the percentage of cross-gender ties when we use the full dataset without filtering by age? Does this pattern surprise you, and why or why not?</p>
-<div class="cell">
-<div class="code-copy-outer-scaffold"><div class="sourceCode cell-code" id="cb29"><pre class="sourceCode r code-with-copy"><code class="sourceCode r"><span id="cb29-1"><a href="#cb29-1" aria-hidden="true" tabindex="-1"></a>responses <span class="sc">%&gt;%</span> </span>
-<span id="cb29-2"><a href="#cb29-2" aria-hidden="true" tabindex="-1"></a>  <span class="fu">filter</span>(alter_age <span class="sc">&gt;</span> <span class="dv">40</span>) <span class="sc">%&gt;%</span> </span>
-<span id="cb29-3"><a href="#cb29-3" aria-hidden="true" tabindex="-1"></a>  <span class="fu">count</span>(ego_gender, alter_gender)</span></code></pre></div><button title="Copy to Clipboard" class="code-copy-button"><i class="bi"></i></button></div>
-<div class="cell-output cell-output-stdout">
-<pre><code># A tibble: 4 × 3
-  ego_gender alter_gender     n
-  &lt;chr&gt;      &lt;chr&gt;        &lt;int&gt;
-1 F          F                6
-2 F          M                2
-3 M          F                3
-4 M          M                2</code></pre>
-</div>
-</div>
+<p>2.4 Which mechanisms do you think are most responsible for the finding you observed in 2.3?</p>
+<p>2.5. Revisit our survey data. Use the <code>filter()</code> function and the <code>alter_age</code> variable to restrict the data to discussion partners older than 40.</p>
+<p>Among these ties, what percentage are cross-gender ties (men → women or women → men)? Does this look different from the percentage of cross-gender ties when we use all discussion partners without filtering by age? Does this pattern surprise you, and why or why not?</p>
+<p>Create a new code chunk to do this. Copy and paste code from above, but include a line to <code>filter()</code> to alters over age 40.</p>
 </section>
 </section>
 </section>
-<section id="bonus-infectious-diseases-in-networks-optional" class="level1">
-<h1>Bonus: Infectious Diseases in Networks (Optional)</h1>
-<p>If you are curious about how network structure shapes disease spread, you can explore a Shiny app called SimNetwork developed by Alison Wu:</p>
+<section id="optional-exercise-sir-models-on-networks" class="level1">
+<h1>Optional Exercise: SIR Models on Networks</h1>
+<p>If you are curious about how network structure shapes disease spread, you can explore a Shiny app demo’d in class called SimNetwork developed by Alison Wu:</p>
 <p>https://github.com/alisonswu/shiny-SimNetwork</p>
 <p>This interactive app allows you to:</p>
 <ul>
@@ -647,11 +652,11 @@ window.Quarto = {
 </ul>
 <p>You may run this on your own time if you’d like to experiment with dynamic processes on networks. To launch the app locally, you will need to run this code:</p>
 <div class="cell">
-<div class="code-copy-outer-scaffold"><div class="sourceCode cell-code" id="cb31"><pre class="sourceCode r code-with-copy"><code class="sourceCode r"><span id="cb31-1"><a href="#cb31-1" aria-hidden="true" tabindex="-1"></a><span class="do">## uncomment lines below to install and run the shiny app</span></span>
-<span id="cb31-2"><a href="#cb31-2" aria-hidden="true" tabindex="-1"></a><span class="co"># install.packages("shiny")</span></span>
-<span id="cb31-3"><a href="#cb31-3" aria-hidden="true" tabindex="-1"></a><span class="co"># library(shiny)</span></span>
-<span id="cb31-4"><a href="#cb31-4" aria-hidden="true" tabindex="-1"></a><span class="co"># </span></span>
-<span id="cb31-5"><a href="#cb31-5" aria-hidden="true" tabindex="-1"></a><span class="co"># runGitHub("shiny-SimNetwork", "alisonswu")</span></span></code></pre></div><button title="Copy to Clipboard" class="code-copy-button"><i class="bi"></i></button></div>
+<div class="code-copy-outer-scaffold"><div class="sourceCode cell-code" id="cb29"><pre class="sourceCode r code-with-copy"><code class="sourceCode r"><span id="cb29-1"><a href="#cb29-1" aria-hidden="true" tabindex="-1"></a><span class="do">## uncomment lines below to install and run the shiny app</span></span>
+<span id="cb29-2"><a href="#cb29-2" aria-hidden="true" tabindex="-1"></a><span class="co"># install.packages("shiny")</span></span>
+<span id="cb29-3"><a href="#cb29-3" aria-hidden="true" tabindex="-1"></a><span class="co"># library(shiny)</span></span>
+<span id="cb29-4"><a href="#cb29-4" aria-hidden="true" tabindex="-1"></a><span class="co"># </span></span>
+<span id="cb29-5"><a href="#cb29-5" aria-hidden="true" tabindex="-1"></a><span class="co"># runGitHub("shiny-SimNetwork", "alisonswu")</span></span></code></pre></div><button title="Copy to Clipboard" class="code-copy-button"><i class="bi"></i></button></div>
 </div>
 <p><code>runGitHub()</code> is a function from the <code>shiny</code> package that allows us to run a Shiny app directly from a GitHub repository.</p>
 <p>This app is divided into three main steps:</p>
@@ -689,7 +694,7 @@ window.Quarto = {
 <section id="exercises" class="level2">
 <h2 class="anchored" data-anchor-id="exercises">Exercises</h2>
 <p><strong>3.1</strong>: Run the simulation using different network structures. Keep all disease settings the same. Which network structure produced the largest outbreak? What features of that network’s structure might make disease spread more easily?</p>
-<p><strong>3.2</strong>: Choose two disease parameters and experiment with them. Change one parameter at a time while keeping the network type set to “small world” and all other settings the same. After each change, run the simulation and observe the results. Which parameters, when increased, make it more likely that the entire population becomes infected? List the parameters and briefly explain why increasing them leads to a larger outbreak.</p>
+<p><strong>3.2</strong>: Choose two disease parameters and experiment with them. Change one parameter at a time while keeping the network type set to “small world” and all other settings the same. After each change, run the simulation and observe the results. Which parameters, when increased or decreased, make it more likely that the entire population becomes infected? List each parameters and briefly explain why increasing/decreasing them leads to a larger outbreak.</p>
 </section>
 </section>
 
